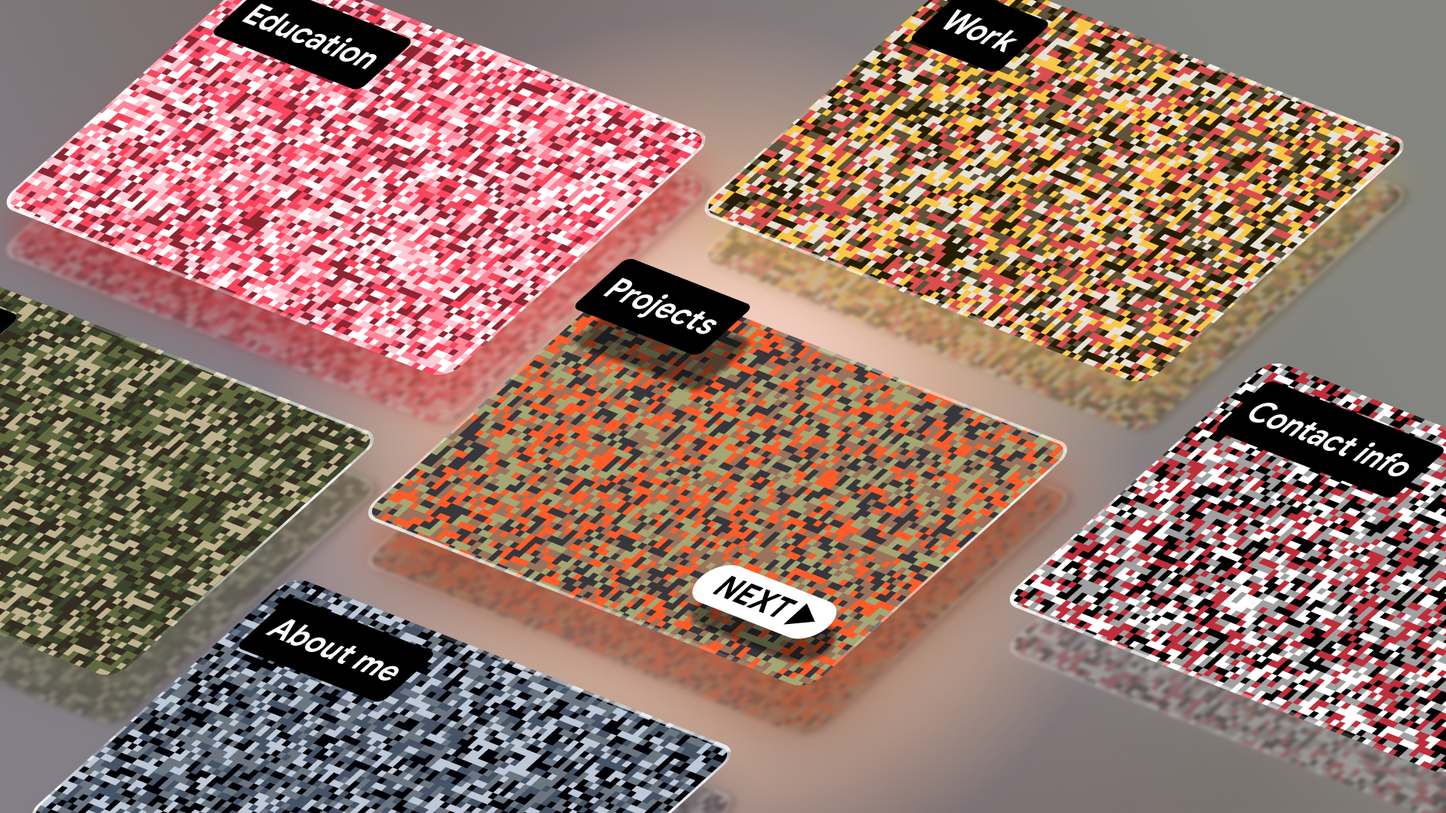
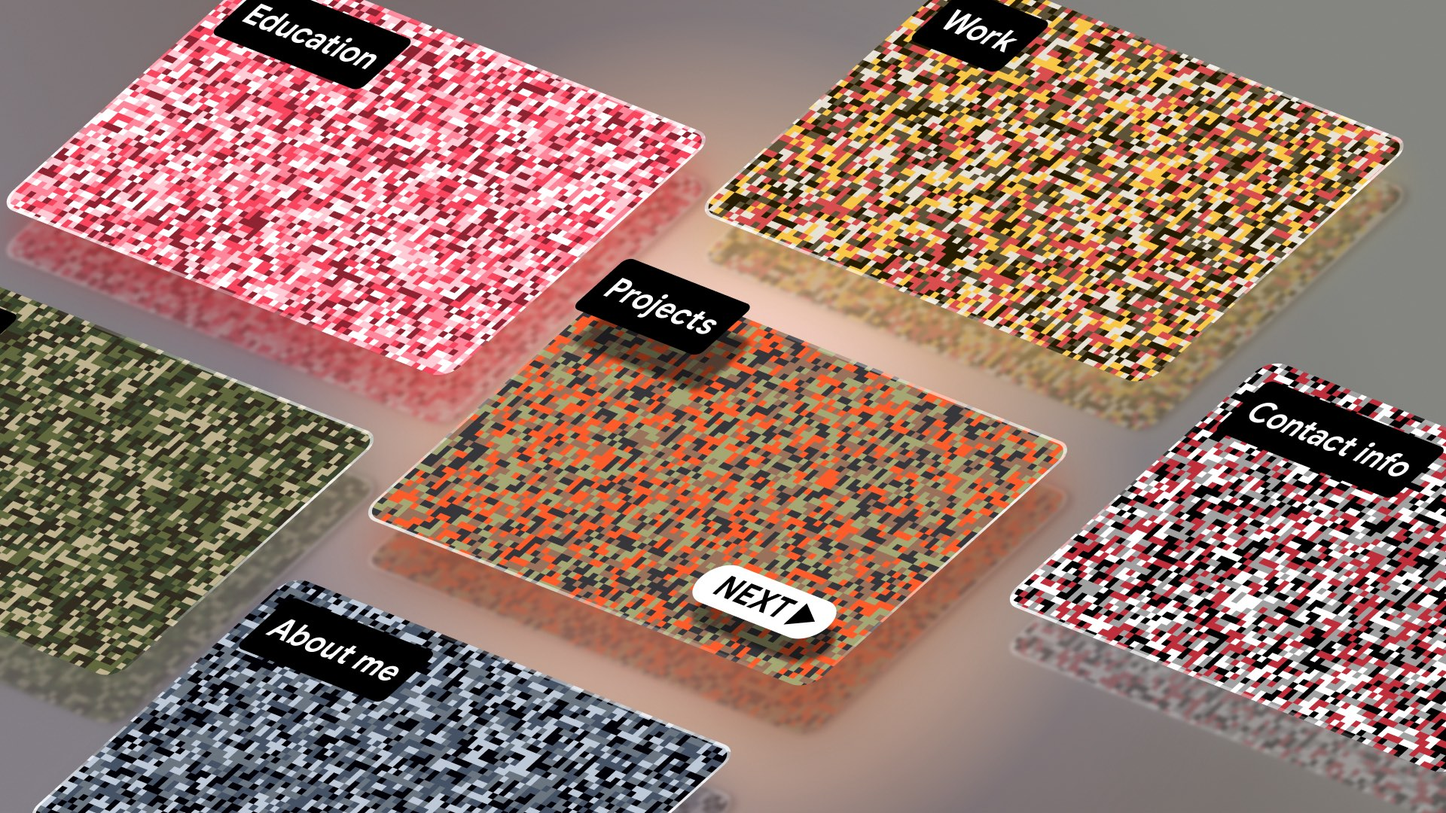
Resized some thumbnails for better loading times

diff --git a/gh-pages.js b/gh-pages.js
@@ -5,7 +5,7 @@ publish(
  {
   branch: 'master',
   repo: 'https://github.com/mercvre/mercvre.github.io.git',
-  message: "Added a few personal projects",
+  message: "Resized some thumbnails for better loading times",
   // Update to point to your repository
   // user: {
   //  name: 'mercvre', // update to use your name
